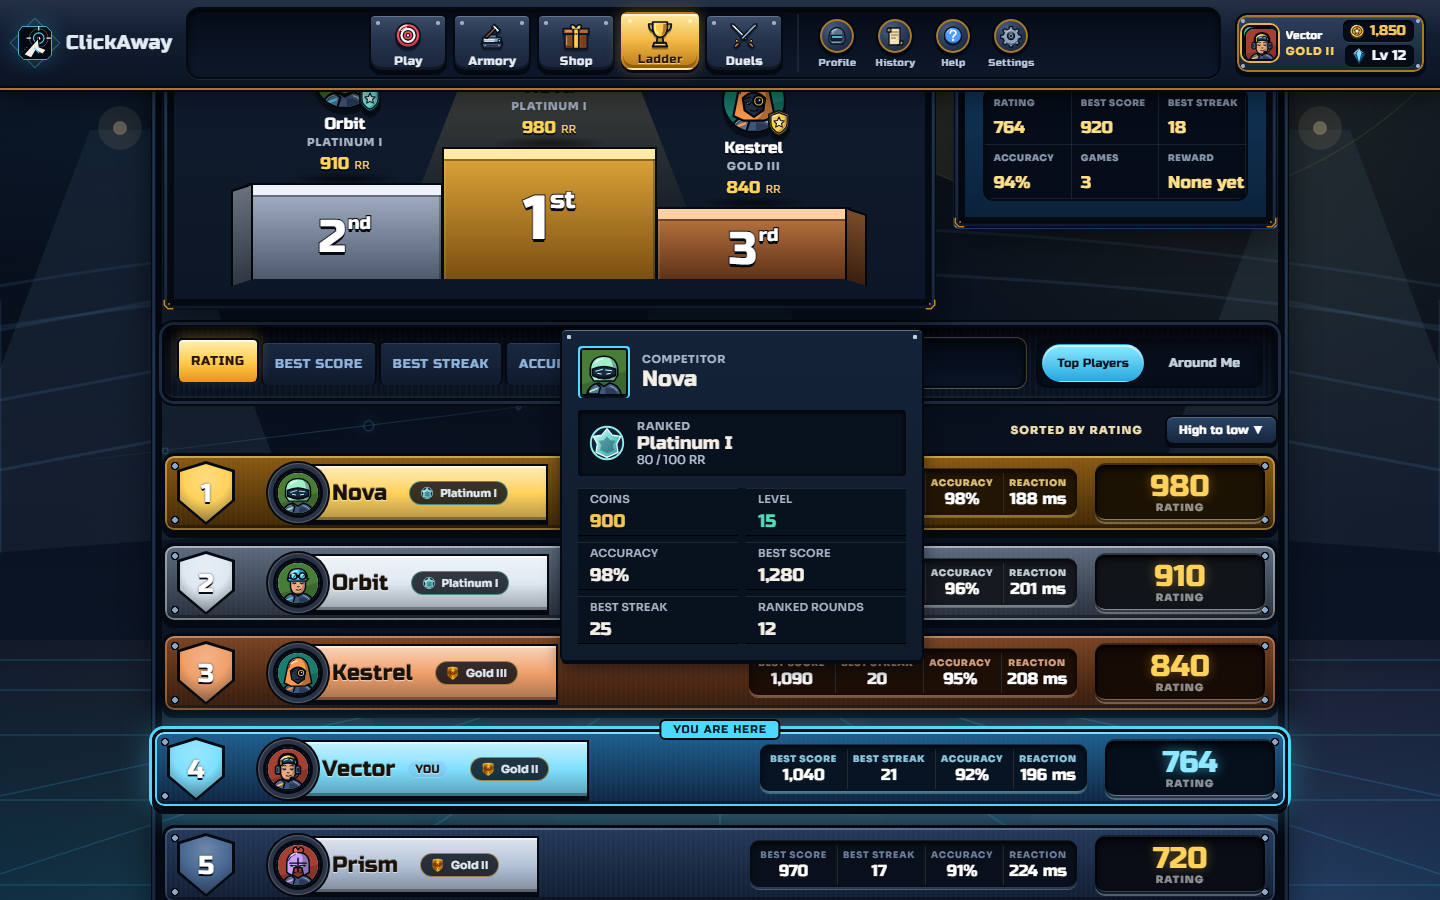
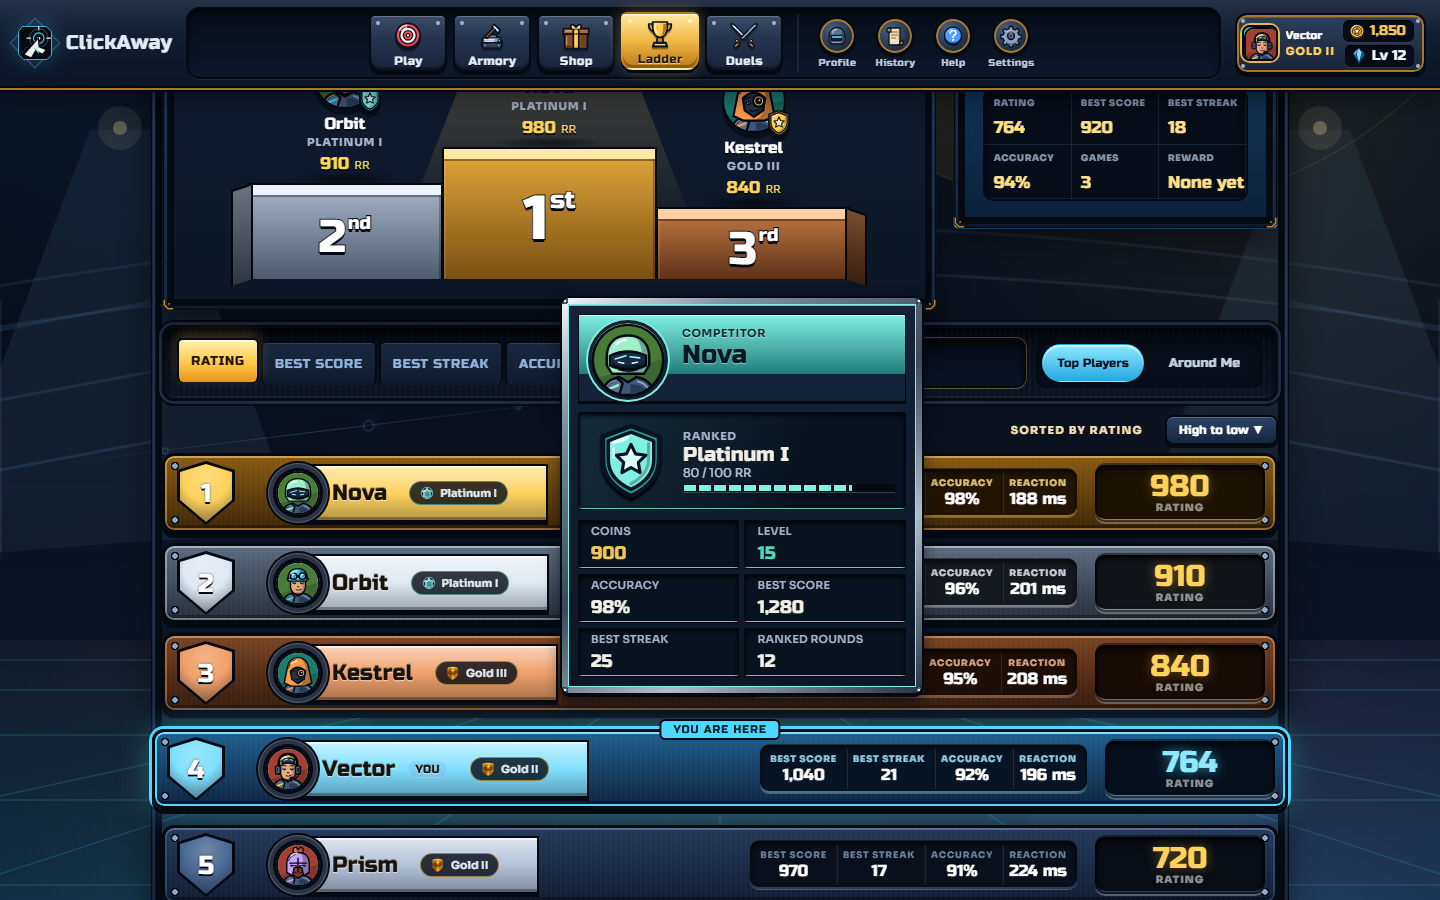
Give ladder rivals a metallic scouting card

Changed region(s): [[0.375, 0.3111, 0.6562, 0.7778]]

diff --git a/src/styles/game-feel.css b/src/styles/game-feel.css
@@ -3702,3 +3702,48 @@
 @media (max-width:420px) { .ladderPlate .leaderboardEntryHoverWrap:is(:hover, :focus-within) .leaderboardEntryHoverCard .ladderPlayerHoverCard { width:min(360px, calc(100vw - 24px)); } }
 @media (max-width:320px) { .ladderPlate .leaderboardEntryHoverWrap:is(:hover, :focus-within) .leaderboardEntryHoverCard .ladderPlayerHoverCard .profileHoverStats { grid-template-columns:1fr; } }
 @media (prefers-reduced-motion:reduce) { .ladderPlate .leaderboardEntryHoverWrap:is(:hover, :focus-within) .leaderboardEntryHoverCard .ladderPlayerHoverCard { transition:none; } }
+
+/* Rivals' scouting pass: steel frame and tier enamel. */
+.ladderPlate .leaderboardEntryHoverWrap:is(:hover, :focus-within) .leaderboardEntryHoverCard .ladderPlayerHoverCard {
+  --pass-trim:#a8b6c8; --pass-deep:#536273;
+  padding:10px; border:6px solid transparent; border-radius:7px;
+  background:
+    radial-gradient(circle at 3px 3px,#e9f4fa 0 1px,#536476 1.5px 2.5px,#111a26 3px,transparent 3.5px) border-box,
+    radial-gradient(circle at calc(100% - 3px) 3px,#e9f4fa 0 1px,#536476 1.5px 2.5px,#111a26 3px,transparent 3.5px) border-box,
+    radial-gradient(circle at 3px calc(100% - 3px),#e9f4fa 0 1px,#536476 1.5px 2.5px,#111a26 3px,transparent 3.5px) border-box,
+    radial-gradient(circle at calc(100% - 3px) calc(100% - 3px),#e9f4fa 0 1px,#536476 1.5px 2.5px,#111a26 3px,transparent 3.5px) border-box,
+    linear-gradient(#142338,#0b1725) padding-box,
+    linear-gradient(145deg,#f3f7f9 0%,#8295a6 18%,#394958 48%,#aebdca 72%,#263441 100%) border-box;
+  box-shadow:inset 0 0 0 1px var(--pass-trim), inset 0 2px 0 #ffffff99, 0 4px 0 #050912, 0 9px 18px #050912aa;
+  gap:10px;
+}
+.ladderPlate .leaderboardEntryHoverWrap:is(:hover, :focus-within) .ladderPlayerHoverCard.ladderTier-platinum { --pass-trim:#7ff0e2; --pass-deep:#237e79; }
+.ladderPlate .leaderboardEntryHoverWrap:is(:hover, :focus-within) .ladderPlayerHoverCard.ladderTier-gold { --pass-trim:#ffcf55; --pass-deep:#98691b; }
+.ladderPlate .leaderboardEntryHoverWrap:is(:hover, :focus-within) .ladderPlayerHoverCard.ladderTier-silver { --pass-trim:#dfe7f1; --pass-deep:#697c92; }
+.ladderPlate .leaderboardEntryHoverWrap:is(:hover, :focus-within) .ladderPlayerHoverCard.ladderTier-bronze { --pass-trim:#e59a62; --pass-deep:#8a4f2d; }
+.ladderPlate .leaderboardEntryHoverWrap:is(:hover, :focus-within) .ladderPlayerHoverCard.ladderTier-diamond { --pass-trim:#9cc0ff; --pass-deep:#4a6fd1; }
+.ladderPlate .leaderboardEntryHoverWrap:is(:hover, :focus-within) .leaderboardEntryHoverCard .ladderPlayerHoverCard .profileHoverIdentity {
+  position:relative; min-height:88px; grid-template-columns:84px minmax(0,1fr); gap:10px; padding:5px 9px 0;
+  background:linear-gradient(180deg,var(--pass-trim),var(--pass-deep) 68%,#142338 69%,#142338 100%);
+  border:1px solid #050912; box-shadow:inset 0 1px #fff8, 0 2px 0 #050912;
+}
+.ladderPlate .leaderboardEntryHoverWrap:is(:hover, :focus-within) .leaderboardEntryHoverCard .ladderPlayerHoverCard .profileHoverAvatar {
+  width:80px; height:80px; padding:2px; border:3px solid #15212e; border-radius:50%; background:#08111e !important;
+  box-shadow:0 0 0 2px var(--pass-trim), 0 3px 0 #050912, inset 0 1px #fff9; align-self:start;
+}
+.ladderPlate .leaderboardEntryHoverWrap:is(:hover, :focus-within) .leaderboardEntryHoverCard .ladderPlayerHoverCard .profileHoverAvatar > .playerPortrait { width:72px; height:72px; border-radius:50%; }
+.ladderPlate .leaderboardEntryHoverWrap:is(:hover, :focus-within) .leaderboardEntryHoverCard .ladderPlayerHoverCard .profileHoverIdentityText { align-self:start; padding-top:6px; }
+.ladderPlate .leaderboardEntryHoverWrap:is(:hover, :focus-within) .leaderboardEntryHoverCard .ladderPlayerHoverCard .profileHoverIdentityLabel { color:#102c32; text-shadow:0 1px #ffffff66; }
+.ladderPlate .leaderboardEntryHoverWrap:is(:hover, :focus-within) .leaderboardEntryHoverCard .ladderPlayerHoverCard .profileHoverIdentityName { font:26px/30px var(--ca-font-display, sans-serif); color:#071a21; text-shadow:0 1px #ffffff66; }
+.ladderPlate .leaderboardEntryHoverWrap:is(:hover, :focus-within) .leaderboardEntryHoverCard .ladderPlayerHoverCard .profileHoverRankBlock {
+  min-height:90px; grid-template-columns:84px minmax(0,1fr); gap:10px; padding:6px 10px;
+  border:1px solid #050912; background:linear-gradient(115deg,#162c39,#08111e 72%); box-shadow:inset 0 2px 5px #000, inset 0 -1px var(--pass-trim);
+}
+.ladderPlate .leaderboardEntryHoverWrap:is(:hover, :focus-within) .leaderboardEntryHoverCard .ladderPlayerHoverCard .profileHoverRankIconSlot { width:84px; height:84px; }
+.ladderPlate .leaderboardEntryHoverWrap:is(:hover, :focus-within) .leaderboardEntryHoverCard .ladderPlayerHoverCard .profileHoverRankIcon { width:84px; height:84px; filter:drop-shadow(0 3px 1px #000); }
+.ladderPlate .leaderboardEntryHoverWrap:is(:hover, :focus-within) .leaderboardEntryHoverCard .ladderPlayerHoverCard .profileHoverRankText { align-content:center; }
+.ladderPlate .leaderboardEntryHoverWrap:is(:hover, :focus-within) .leaderboardEntryHoverCard .ladderPlayerHoverCard .profileHoverRankValue { font-size:20px; line-height:23px; }
+.ladderPlate .leaderboardEntryHoverWrap:is(:hover, :focus-within) .leaderboardEntryHoverCard .ladderPlayerHoverCard .ladderRankGauge { display:block; height:8px; margin-top:4px; background:#030a12; border:1px solid #050912; box-shadow:0 1px #ffffff30; }
+.ladderPlate .leaderboardEntryHoverWrap:is(:hover, :focus-within) .leaderboardEntryHoverCard .ladderPlayerHoverCard .ladderRankGauge > span { display:block; height:100%; width:var(--rank-progress); background:repeating-linear-gradient(90deg,var(--pass-trim) 0 12px,transparent 12px 15px); }
+.ladderPlate .leaderboardEntryHoverWrap:is(:hover, :focus-within) .leaderboardEntryHoverCard .ladderPlayerHoverCard .profileHoverStats { gap:5px; background:transparent; }
+.ladderPlate .leaderboardEntryHoverWrap:is(:hover, :focus-within) .leaderboardEntryHoverCard .ladderPlayerHoverCard .profileHoverStat { min-height:49px; background:#09131f; border:1px solid #050912; box-shadow:inset 0 2px 5px #000, inset 0 -1px var(--pass-trim); }

diff --git a/src/components/PlayerHoverCard.jsx b/src/components/PlayerHoverCard.jsx
@@ -1,5 +1,6 @@
 import { Link } from "react-router-dom"
 import PlayerPortrait from "./art/PlayerPortrait.jsx"
+import { CrestIcon } from "./art/GameIcons.jsx"
 
 import { getProfileAvatarStyle } from "../utils/profileAvatarStyling.js"
 import { formatPercent } from "../utils/gameMath.js"
@@ -61,15 +62,21 @@ function PlayerAvatar({ username, profileImage }) {
   )
 }
 
-function RankedIdentity({ rankProgress = null, rankLabel, rankMmr }) {
+function RankedIdentity({ rankProgress = null, rankLabel, rankMmr, ladder = false, tierTone = "unranked" }) {
   const displayLabel = rankProgress?.tierLabel || rankLabel || "Unranked"
   const displayMmr = Number.isFinite(rankMmr) ? Math.max(0, rankMmr) : 0
   const rankImageSrc = getRankImageSrc(rankProgress ?? displayLabel)
   const metaText = getRankMetaText(rankProgress, displayLabel, displayMmr)
+  const hasProgress = Number.isFinite(rankProgress?.rr) && Number.isFinite(rankProgress?.rrMax) && rankProgress.rrMax > 0
+  const progressPercent = hasProgress ? Math.max(0, Math.min(100, rankProgress.rr / rankProgress.rrMax * 100)) : 0
 
   return (
     <section className="profileHoverRankBlock" aria-label={`Ranked rating ${displayLabel}`}>
-      {rankImageSrc ? (
+      {ladder ? (
+        <span className="profileHoverRankIconSlot" aria-hidden="true">
+          <CrestIcon tone={tierTone} className="profileHoverRankIcon" />
+        </span>
+      ) : rankImageSrc ? (
         <span className="profileHoverRankIconSlot" aria-hidden="true">
           <img className="profileHoverRankIcon" src={rankImageSrc} alt="" width="128" height="128" decoding="async" />
         </span>
@@ -78,6 +85,9 @@ function RankedIdentity({ rankProgress = null, rankLabel, rankMmr }) {
         <span className="profileHoverRankLabel">Ranked</span>
         <strong className="profileHoverRankValue">{displayLabel}</strong>
         <span className="profileHoverRankMeta">{metaText}</span>
+        {ladder && hasProgress ? (
+          <span className="ladderRankGauge" aria-hidden="true" style={{ "--rank-progress": `${progressPercent}%` }}><span /></span>
+        ) : null}
       </div>
     </section>
   )
@@ -86,6 +96,7 @@ function RankedIdentity({ rankProgress = null, rankLabel, rankMmr }) {
 export default function PlayerHoverCard({
   id,
   className = "",
+  ladder = false,
   role,
   username = "Player",
   profileImage = null,
@@ -101,6 +112,8 @@ export default function PlayerHoverCard({
   bestStreak = null,
   rankedRounds = null,
 }) {
+  const tierName = String(rankProgress?.tierLabel || rankLabel).split(" ")[0].toLowerCase()
+  const tierTone = ["gold", "silver", "bronze", "platinum", "diamond"].includes(tierName) ? tierName : "unranked"
   const formattedCoins = Number.isFinite(coins) ? coins.toLocaleString() : "0"
   const normalizedLevel = Number.isFinite(level) ? Math.max(1, level) : 1
   const formattedAccuracy = formatPercent(accuracyPercent)
@@ -108,7 +121,7 @@ export default function PlayerHoverCard({
   return (
     <div
       id={id}
-      className={`profileHoverCard ${className}`.trim()}
+      className={`profileHoverCard ${className} ${ladder ? `ladderTier-${tierTone}` : ""}`.trim()}
       role={role}
       aria-label={role ? `${username} player details` : undefined}
     >
@@ -120,7 +133,7 @@ export default function PlayerHoverCard({
         </div>
       </header>
 
-      <RankedIdentity rankProgress={rankProgress} rankLabel={rankLabel} rankMmr={rankMmr} />
+      <RankedIdentity rankProgress={rankProgress} rankLabel={rankLabel} rankMmr={rankMmr} ladder={ladder} tierTone={tierTone} />
 
       <dl className="profileHoverStats" aria-label="Player quick stats">
         <QuickStat label="Coins" value={formattedCoins} tone="coins" />

diff --git a/src/pages/LeaderboardPage.jsx b/src/pages/LeaderboardPage.jsx
@@ -825,6 +825,7 @@ export default function LeaderboardPage({
                         <PlayerHoverCard
                           username={player.username}
                           className="ladderPlayerHoverCard"
+                          ladder
                           rankProgress={player.rankProgress}
                           rankLabel={player.rankLabel}
                           rankMmr={player.mmr}
